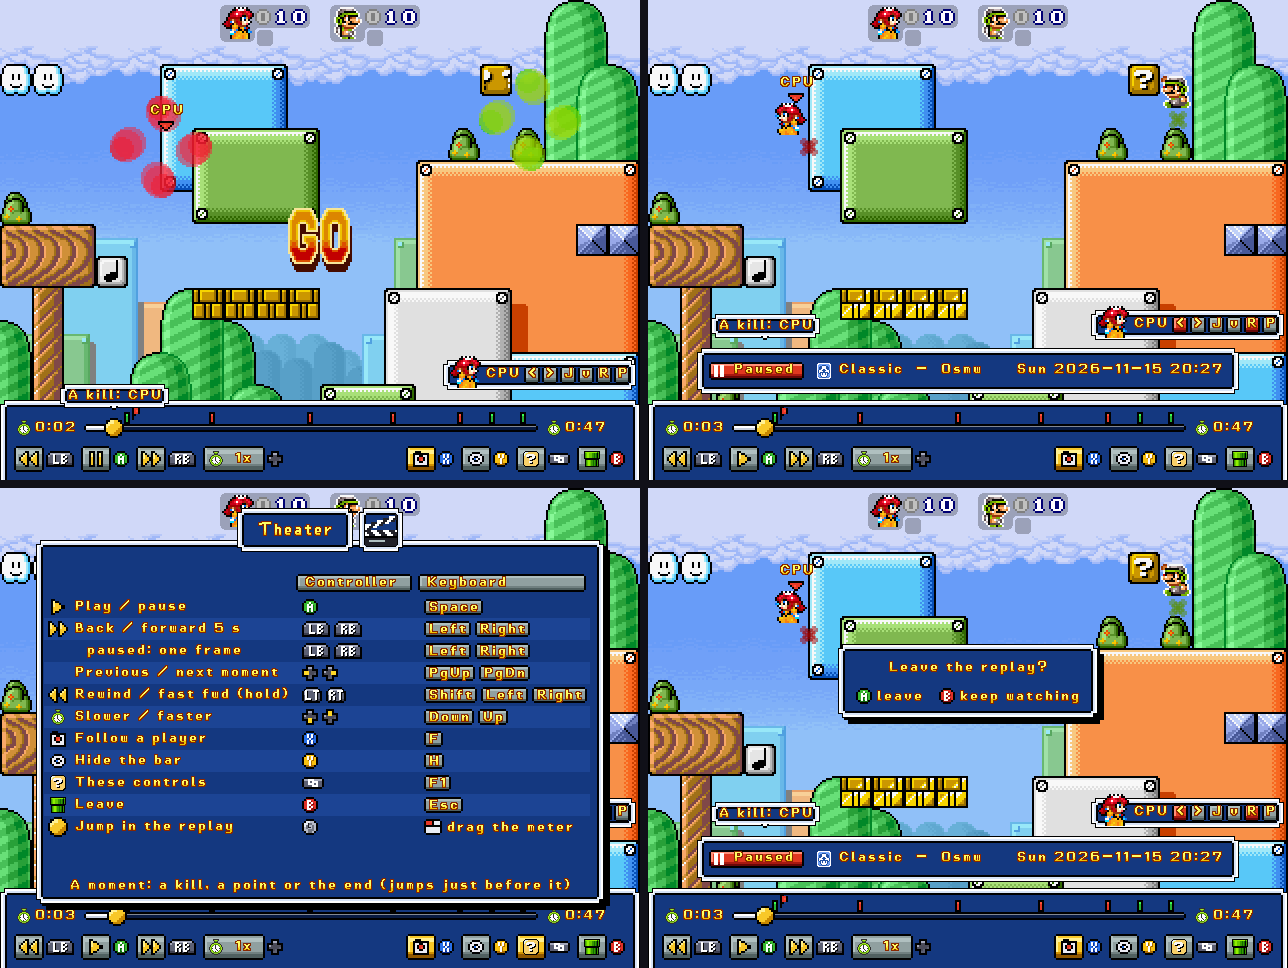
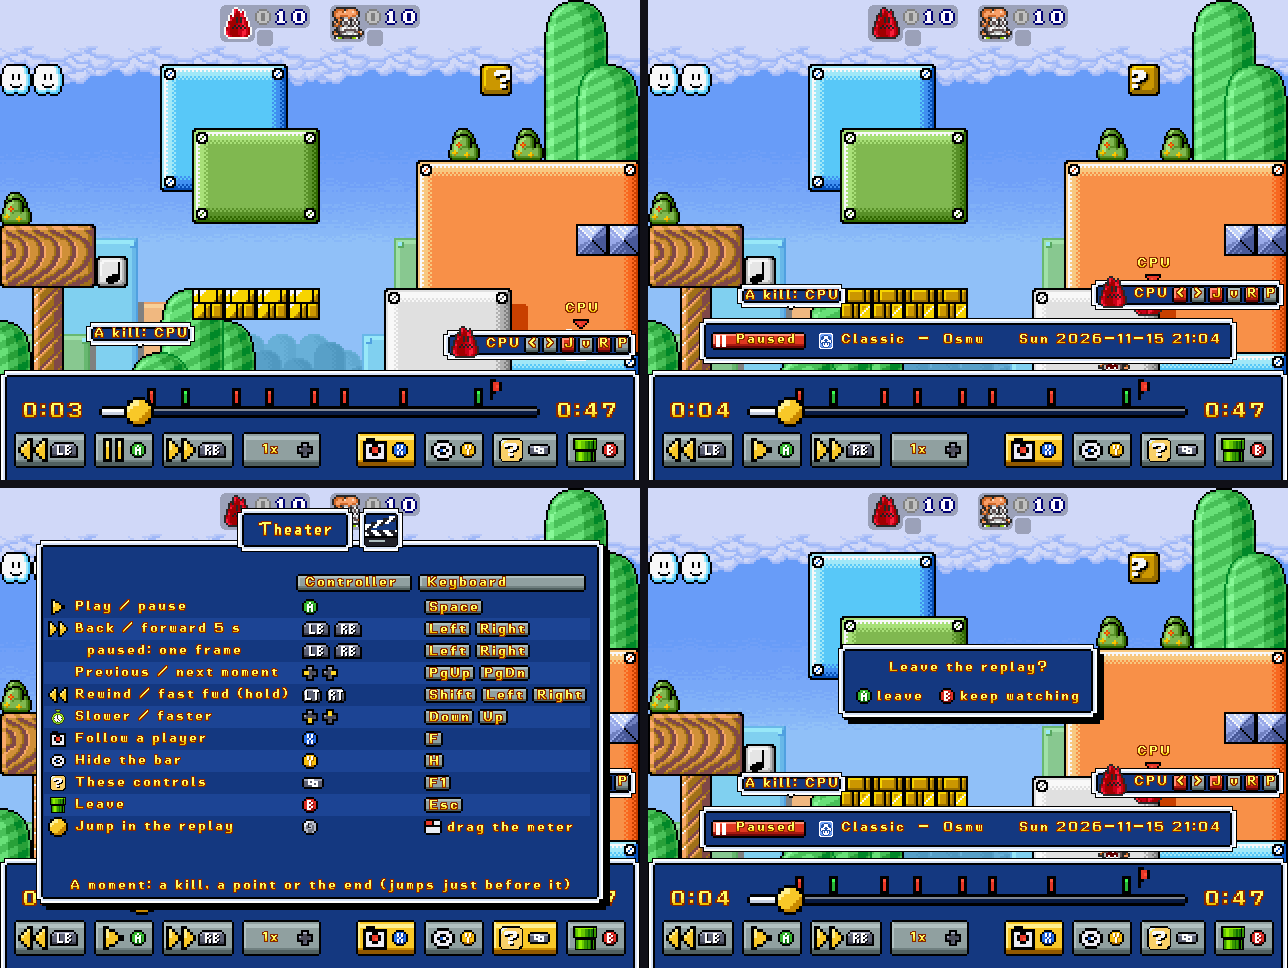
ui improvements

diff --git a/src/smw/GameplayTheater.cpp b/src/smw/GameplayTheater.cpp
@@ -59,13 +59,17 @@ constexpr int UI_SHOW_FRAMES = 200;    // after the last input
 
 // The layout (screen coordinates): the dock (the game's green dialog) at the
 // bottom, the timeline (a line) in it, the buttons under it
-constexpr int DOCK_Y = 394;
-constexpr int TRACK_X = 88;
-constexpr int TRACK_W = 446;
-constexpr int TRACK_Y = 420;
-constexpr int TRACK_H = 16;
-constexpr int BUTTON_Y = 446;
-constexpr int BUTTON_H = 26;
+// (the timeline is drawn half again as big, like the buttons' icons: TIMELINE_*
+// are its row's place on the screen, TRACK_* the line's)
+constexpr int DOCK_Y = 364;
+constexpr int TIMELINE_Y = 370;
+constexpr int TIMELINE_H = 60;
+constexpr int TRACK_X = 105;
+constexpr int TRACK_W = 429;
+constexpr int TRACK_Y = 400;    //(the line's middle: TRACK_Y + 12)
+constexpr int TRACK_H = 24;
+constexpr int BUTTON_Y = 432;
+constexpr int BUTTON_H = 36;
 
 constexpr SDL_Color WHITE {255, 255, 255, 255};
 constexpr SDL_Color BLACK {0, 0, 0, 255};
@@ -261,28 +265,48 @@ bool barShown()
     return !th.hidden && (th.paused || th.help || replay::playbackStatus().finished || th.uiFrames > 0);
 }
 
-// The width of a button
-int buttonWidth(Control c)
+// The buttons' icons: the 16 pixel icons, half again as big
+constexpr int BUTTON_ICON = 24;
+
+// The buttons' padding: as roomy as fits (the keys' caps are wider than a controller's buttons)
+int g_buttonPad = 10;
+
+// The width of a button: its icon, (the speed,) and its controller button or key inside it
+int buttonWidth(Control c, int pad = g_buttonPad)
 {
-    return c == SPEED ? 62 : 30;
+    const ControlInfo& info = CONTROLS[static_cast<size_t>(c)];
+    //(the speed: its name instead of an icon, as wide as the widest)
+    const int icon = c == SPEED ? theme::font().getWidth("1/4x") : BUTTON_ICON;
+    return pad + icon + pad / 2 + 2 + prompts::promptWidth(info.pad, info.key, "") + pad;
 }
 
 // Lays out the buttons: the play controls on the left, the others on the right
 void layout()
 {
     Theater& th = g_theater;
+    //(the padding: the most that lets both groups fit side by side)
+    g_buttonPad = 4;
+    for (int pad = 10; pad > 4; pad--) {
+        int total = 14 + 14 + 6 * 8 + 16;
+        for (int c = 0; c < CONTROL_COUNT; c++)
+            total += buttonWidth(static_cast<Control>(c), pad);
+        if (total <= App::screenWidth) {
+            g_buttonPad = pad;
+            break;
+        }
+    }
     int x = 14;
     for (int c = BACK5; c <= SPEED; c++) {
         const int w = buttonWidth(static_cast<Control>(c));
         th.rects[static_cast<size_t>(c)] = {x, BUTTON_Y, w, BUTTON_H};
-        x += w + 2 + prompts::promptWidth(CONTROLS[static_cast<size_t>(c)].pad, CONTROLS[static_cast<size_t>(c)].key, "") + 6;
+        x += w + 8;
     }
     x = App::screenWidth - 14;
     for (int c = LEAVE; c >= FOLLOW; c--) {
         const int w = buttonWidth(static_cast<Control>(c));
-        x -= prompts::promptWidth(CONTROLS[static_cast<size_t>(c)].pad, CONTROLS[static_cast<size_t>(c)].key, "") + 2 + w;
+        x -= w;
         th.rects[static_cast<size_t>(c)] = {x, BUTTON_Y, w, BUTTON_H};
-        x -= 6;
+        x -= 8;
     }
 }
 
@@ -411,17 +435,53 @@ void drawPlayhead(int cx, int cy, bool held)
     }, {{'#', BLACK}, {'l', GOLD_LIGHT}, {'g', gold}, {'d', {200, 136, 0, 255}}});
 }
 
+// Some drawing, half again as big: drawn at its size on the side (in the area's
+// coordinates, divided by 1.5), then scaled up as pixel art
+template <typename Draw>
+void drawBigger(const SDL_Rect& area, Draw draw)
+{
+    const int w = (area.w * 2 + 2) / 3;
+    const int h = (area.h * 2 + 2) / 3;
+    static SDL_Surface* canvas = nullptr;
+    if (!canvas || canvas->w < w || canvas->h < h) {
+        SDL_DestroySurface(canvas);
+        canvas = SDL_CreateSurface(std::max(w, App::screenWidth), std::max(h, 64), SDL_PIXELFORMAT_ARGB8888);
+        if (!canvas)
+            return;
+        SDL_SetSurfaceBlendMode(canvas, SDL_BLENDMODE_BLEND);
+    }
+    const SDL_Rect src {0, 0, w, h};
+    SDL_FillSurfaceRect(canvas, &src, SDL_MapSurfaceRGBA(canvas, 0, 0, 0, 0));
+    SDL_Surface* screen = blitdest;
+    blitdest = canvas;
+    SDL_SetSurfaceClipRect(canvas, &src);
+    draw();
+    SDL_SetSurfaceClipRect(canvas, nullptr);
+    blitdest = screen;
+    const SDL_Rect dst {area.x, area.y, w * 3 / 2, h * 3 / 2};
+    SDL_BlitSurfaceScaled(canvas, &src, blitdest, &dst, SDL_SCALEMODE_PIXELART);
+}
+
+// A button's icon, half again as big (24 pixels: x, y its top left)
+void drawIconBigger(Control c, int x, int y)
+{
+    //(room around the 16 pixels: some icons reach past them)
+    drawBigger({x - 12, y - 12, 48, 48}, [c] { drawIcon(c, 8, 8); });
+}
+
 void drawButton(Control c, const SDL_Rect& r, bool hover, bool active)
 {
     const Theater& th = g_theater;
     //Like the menus' fields: gray, green when selected (here: under the mouse, or switched on)
     theme::block(r.x, r.y, r.w, r.h, hover ? theme::Tone::Green : active ? theme::Tone::Gold : theme::Tone::Gray);
-    if (c == SPEED) {
-        drawIcon(c, r.x + 5, r.y + 5);
-        theme::font().drawCentered(r.x + 40, r.y + 5, SPEED_NAMES[th.speed]);
-    } else {
-        drawIcon(c, r.x + (r.w - 16) / 2, r.y + 5);
-    }
+    //(the icon at the left, the button or key that does it at the right)
+    const int iy = r.y + (r.h - 16) / 2;
+    if (c == SPEED)
+        theme::font().drawCentered(r.x + g_buttonPad + theme::font().getWidth("1/4x") / 2, r.y + (r.h - theme::font().getHeight()) / 2, SPEED_NAMES[th.speed]);
+    else
+        drawIconBigger(c, r.x + g_buttonPad, r.y + (r.h - BUTTON_ICON) / 2);
+    const ControlInfo& info = CONTROLS[static_cast<size_t>(c)];
+    prompts::drawPrompt(r.x + r.w - g_buttonPad - prompts::promptWidth(info.pad, info.key, ""), iy, info.pad, info.key, "");
 }
 
 void drawHelp()
@@ -918,47 +978,69 @@ void GameplayState::drawReplayOverlay()
     //are flags in the scoring team's color, the end a checkered flag; the
     //playhead a gold knob
     const int total = std::max(1, status.total);
-    const int done = TRACK_W * std::clamp(g_sim.tick, 0, total) / total;
-    theme::progressLine(TRACK_X - 4, TRACK_Y, TRACK_W + 8, static_cast<float>(std::clamp(g_sim.tick, 0, total)) / static_cast<float>(total));
-    int lastFlag = -100;
-    int lastKill = -100;
-    for (const replay::Marker& m : replay::markers()) {
-        const int mx = TRACK_X + TRACK_W * m.tick / total;
-        //(one flag in 10 pixels, one kill mark in 8: in some modes the score changes all the time)
-        if (m.delta > 0 && mx - lastFlag < 10)
-            continue;
-        if (m.delta < 0 && mx - lastKill < 8)
-            continue;
-        if (m.delta == 0) {
-            theme::modeIcon(mx - 3, TRACK_Y - 18, 13);
-        } else if (m.delta > 0) {
-            lastFlag = mx;
-            theme::flag(mx - 1, TRACK_Y - 14, teamColor(m.team));
-        } else {
-            //A kill: an outlined post in the team's color, standing on the line
-            lastKill = mx;
-            const SDL_Color c = teamColor(m.team);
-            prompts::art(mx - 3, TRACK_Y - 8, {
-                "###",
-                "#l#",
-                "#c#",
-                "#c#",
-                "#c#",
-                "###",
-            }, {{'#', {0, 0, 0, 255}}, {'c', c}, {'l', theme::shade(c, 150)}});
+    const int tick = std::clamp(g_sim.tick, 0, total);
+    const int done = TRACK_W * tick / total;
+    const std::string now = history::formatDuration(g_sim.tick);
+    const std::string end = history::formatDuration(status.total);
+    drawBigger({0, TIMELINE_Y, App::screenWidth, TIMELINE_H}, [&] {
+        //(in the row's coordinates: two thirds of the screen's)
+        const int tx = TRACK_X * 2 / 3;
+        const int tw = TRACK_W * 2 / 3;
+        const int ty = (TRACK_Y - TIMELINE_Y) * 2 / 3;    //(the line's middle: ty + 8)
+        theme::progressLine(tx - 4, ty, tw + 8, static_cast<float>(tick) / static_cast<float>(total));
+        //(in a long match the kills would be a fence: then they're small marks, further apart)
+        int kills = 0;
+        for (const replay::Marker& m : replay::markers())
+            kills += m.delta < 0 ? 1 : 0;
+        const bool crowded = kills * 10 > tw;
+        int lastFlag = -100;
+        int lastKill = -100;
+        for (const replay::Marker& m : replay::markers()) {
+            const int mx = tx + tw * m.tick / total;
+            //(one flag in 10 pixels, one kill mark in 8: in some modes the score changes all the time)
+            if (m.delta > 0 && mx - lastFlag < 10)
+                continue;
+            if (m.delta < 0 && mx - lastKill < (crowded ? 6 : 8))
+                continue;
+            if (m.delta == 0) {
+                theme::modeIcon(mx - 3, ty - 18, 13);
+            } else if (m.delta > 0) {
+                lastFlag = mx;
+                theme::flag(mx - 1, ty - 14, teamColor(m.team));
+            } else {
+                //A kill: an outlined post in the team's color, standing on the line
+                lastKill = mx;
+                const SDL_Color c = teamColor(m.team);
+                if (crowded) {
+                    //(a dot on the line)
+                    prompts::art(mx - 2, ty + 3, {
+                        "##",
+                        "##",
+                    }, {{'#', c}}, 1);
+                    continue;
+                }
+                prompts::art(mx - 3, ty - 8, {
+                    "###",
+                    "#l#",
+                    "#c#",
+                    "#c#",
+                    "#c#",
+                    "###",
+                }, {{'#', {0, 0, 0, 255}}, {'c', c}, {'l', theme::shade(c, 150)}});
+            }
         }
-    }
-    drawPlayhead(TRACK_X + done, TRACK_Y + 8, th.dragging || th.scrubbing);
+        drawPlayhead(tx + tw * tick / total, ty + 8, th.dragging || th.scrubbing);
+        //(the times: the status bar's timer)
+        //(clear of the playhead, at either end)
+        theme::font().draw(tx - 14 - theme::font().getWidth(now), ty, now);
+        theme::font().draw(tx + tw + 14, ty, end);
+    });
     //(the moment jumped to, or the time while scrubbing: over the playhead)
     if (th.scrubbing)
-        theme::tooltip(std::clamp(TRACK_X + done, 60, App::screenWidth - 60), TRACK_Y - 6, history::formatDuration(g_sim.tick));
+        theme::tooltip(std::clamp(TRACK_X + done, 60, App::screenWidth - 60), DOCK_Y - 12, history::formatDuration(g_sim.tick));
     else if (th.toastFrames > 0 && !th.toast.empty())
         theme::tooltip(std::clamp(TRACK_X + done, 40 + theme::font().getWidth(th.toast) / 2, App::screenWidth - 40 - theme::font().getWidth(th.toast) / 2),
-            th.paused || finished ? DOCK_Y - 50 : TRACK_Y - 6, th.toast);    //(over the paused banner)
-    //(the times: the status bar's timer)
-    const std::string now = history::formatDuration(g_sim.tick);
-    theme::timer(TRACK_X - 12 - theme::timerWidth(now), TRACK_Y, now);
-    theme::timer(TRACK_X + TRACK_W + 12, TRACK_Y, history::formatDuration(status.total));
+            th.paused || finished ? DOCK_Y - 50 : DOCK_Y - 12, th.toast);    //(over the paused banner)
 
     //The buttons, each with its controller button or key
     int hovered = -1;
@@ -969,14 +1051,12 @@ void GameplayState::drawReplayOverlay()
             hovered = c;
         const bool active = (c == FOLLOW && th.follow >= 0) || (c == HELP && th.help);
         drawButton(static_cast<Control>(c), r, hover, active);
-        const ControlInfo& info = CONTROLS[static_cast<size_t>(c)];
-        prompts::drawPrompt(r.x + r.w + 2, BUTTON_Y + 5, info.pad, info.key, "");
     }
 
     //(the mouse over the timeline: the time there)
     if (prompts::lastDevice() == prompts::Device::Keyboard && th.mouseY >= TRACK_Y - 10 && th.mouseY < TRACK_Y + TRACK_H + 6 &&
             th.mouseX >= TRACK_X && th.mouseX < TRACK_X + TRACK_W)
-        theme::tooltip(static_cast<int>(th.mouseX), TRACK_Y - 6, history::formatDuration(tickAt(th.mouseX)));
+        theme::tooltip(static_cast<int>(th.mouseX), DOCK_Y - 12, history::formatDuration(tickAt(th.mouseX)));
 
     //Paused, or the end: a banner over the dock (the mode, the map, when)
     const bool titled = th.paused || finished;
